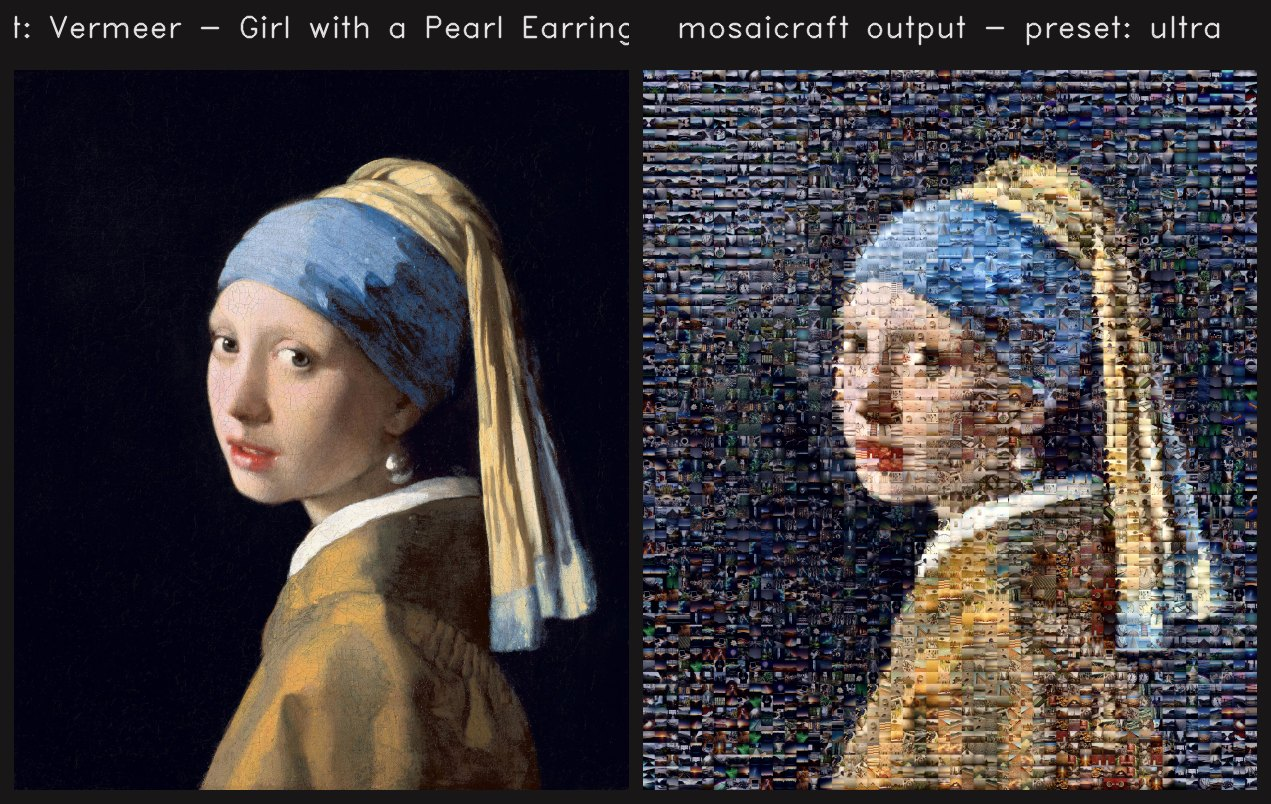
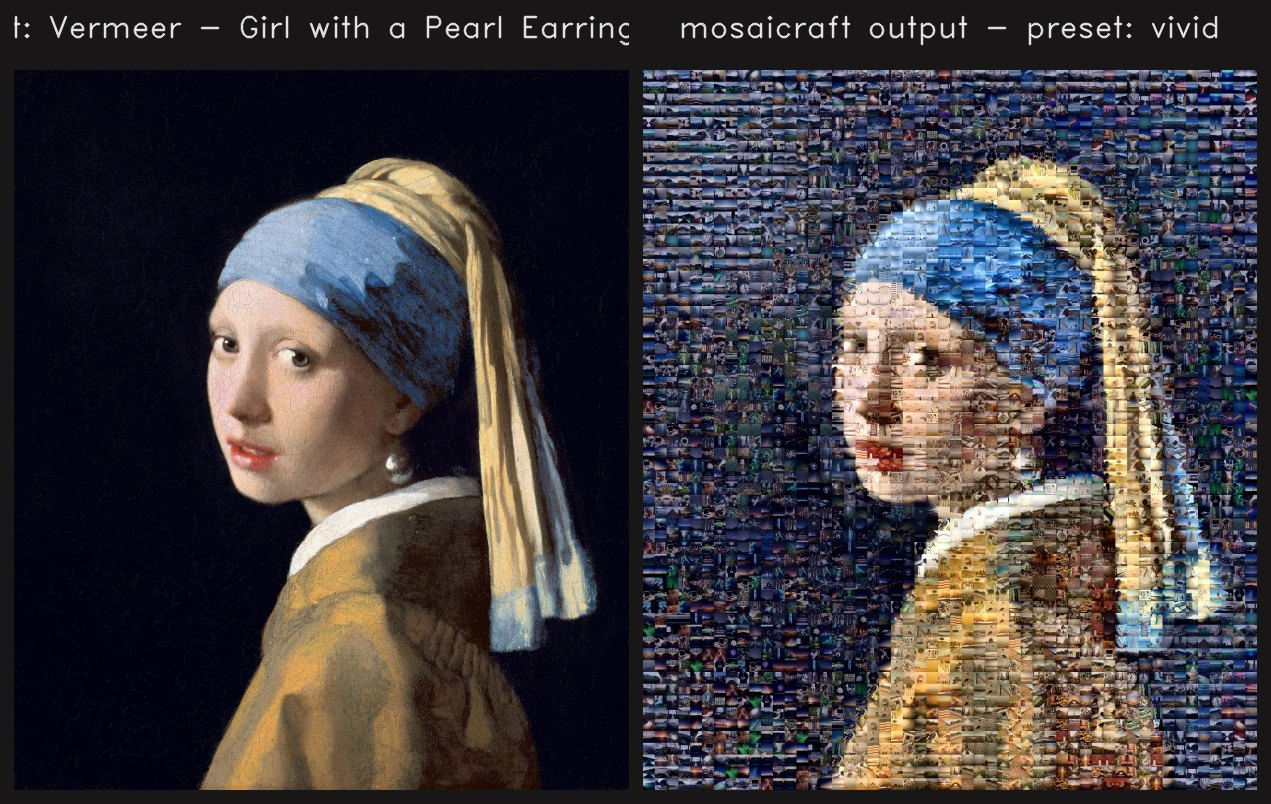
docs: switch all README figures to vivid preset, remove Japanese README
- generate_readme_figures.py: use vivid (MKL optimal transport) as the
  primary preset for hero, before/after, zoom detail, and recolor gallery
- Presets table: vivid first with "Recommended" label
- comparison_zoom.jpg: remade at 640px per thumbnail (was 480px)
- Remove README.ja.md and its link from README.md
- Presets comparison image: vivid | ultra | natural order

diff --git a/scripts/generate_readme_figures.py b/scripts/generate_readme_figures.py
@@ -185,7 +185,7 @@ def make_hero(
     """Side-by-side target vs mosaic for the top of the README."""
     fig = _hstack_with_labels(
         [target, mosaic],
-        [f"Target: {target_caption}", "mosaicraft output - preset: ultra"],
+        [f"Target: {target_caption}", "mosaicraft output - preset: vivid"],
         target_h=720,
         gap=14,
     )
@@ -197,7 +197,7 @@ def make_before_after(
 ) -> None:
     fig = _hstack_with_labels(
         [target, mosaic],
-        ["Before (original painting)", "After - preset: ultra"],
+        ["Before (original painting)", "After - preset: vivid"],
         target_h=640,
         gap=12,
     )
@@ -207,12 +207,12 @@ def make_before_after(
 def make_presets_comparison(
     mosaics: dict[str, np.ndarray], out_path: Path
 ) -> None:
-    order = ["natural", "ultra", "vivid"]
+    order = ["vivid", "ultra", "natural"]
     imgs = [mosaics[p] for p in order]
     labels = [
-        "natural (restrained saturation)",
-        "ultra (Hungarian + Laplacian)",
         "vivid (MKL optimal transport)",
+        "ultra (Hungarian + Laplacian)",
+        "natural (restrained saturation)",
     ]
     fig = _hstack_with_labels(imgs, labels, target_h=620, gap=12)
     cv2.imwrite(str(out_path), fig, [cv2.IMWRITE_JPEG_QUALITY, _JPEG_Q])
@@ -445,16 +445,16 @@ def main() -> int:
     print("[4/4] Composing figures ...")
     make_hero(
         target,
-        mosaics["ultra"],
+        mosaics["vivid"],
         args.output_dir / "hero.jpg",
         target_caption=caption,
     )
-    make_before_after(target, mosaics["ultra"], args.output_dir / "before_after.jpg")
+    make_before_after(target, mosaics["vivid"], args.output_dir / "before_after.jpg")
     make_presets_comparison(mosaics, args.output_dir / "presets_comparison.jpg")
-    make_zoom_detail(mosaics["ultra"], args.output_dir / "zoom_detail.jpg")
+    make_zoom_detail(mosaics["vivid"], args.output_dir / "zoom_detail.jpg")
     make_tiles_sample(TILES_DIR, args.output_dir / "tiles_sample.jpg")
     make_paintings_gallery(manifest, args.output_dir / "paintings_gallery.jpg")
-    make_recolor_gallery(mosaics["ultra"], args.output_dir / "recolor_gallery.jpg")
+    make_recolor_gallery(mosaics["vivid"], args.output_dir / "recolor_gallery.jpg")
     print(f"     figures ready in {time.perf_counter() - t0:.1f}s")
 
     if not args.keep_work:

diff --git a/README.md b/README.md
@@ -8,8 +8,6 @@
 [![License: MIT](https://img.shields.io/badge/License-MIT-yellow.svg)](LICENSE)
 [![Code style: ruff](https://img.shields.io/badge/code%20style-ruff-000000.svg)](https://github.com/astral-sh/ruff)
 
-[日本語 README](README.ja.md)
-
 ![Target vs mosaicraft output](docs/images/hero.jpg)
 
 ---
@@ -168,9 +166,9 @@ Under the hood: convert to Oklab, split into L and C·exp(iH), rotate H and scal
 
 | Preset    | Best for                                                   |
 | --------- | ---------------------------------------------------------- |
-| `ultra`   | Highest quality. Hungarian + Laplacian blend.              |
+| `vivid`   | **Recommended.** MKL optimal transport with skin protection. |
+| `ultra`   | Hungarian + Laplacian blend. Highest pixel fidelity.       |
 | `natural` | Photo-realistic look, restrained saturation.               |
-| `vivid`   | MKL optimal transport with skin protection.                |
 | `tile`    | Emphasizes individual tiles. Strongest mosaic look.        |
 | `fast`    | FAISS + error diffusion only. No rerank, no Hungarian.     |
 
